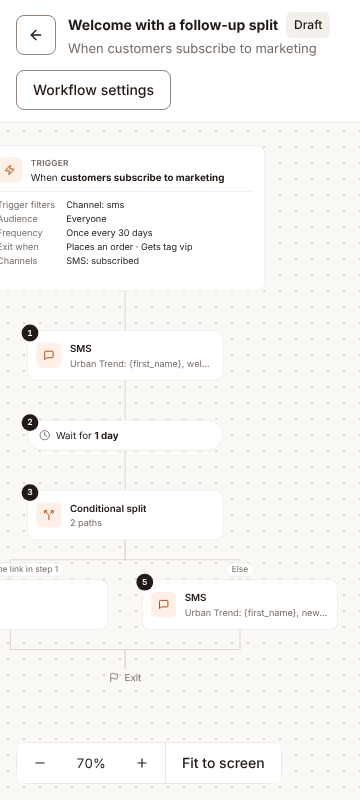
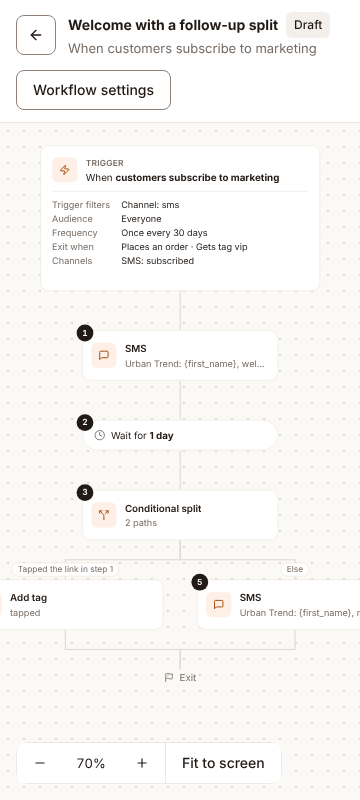
fix(camp-6): route long edges around cards and centre wide flows

diff --git a/apps/web/src/features/automations/workflow-canvas-layout.ts b/apps/web/src/features/automations/workflow-canvas-layout.ts
@@ -90,15 +90,6 @@ function rowOfEachStep(order: string[], steps: AutomationGraph['steps']) {
   return rows;
 }
 
-function edgePath(from: CanvasNode, to: CanvasNode) {
-  const startX = from.x + from.width / 2;
-  const startY = from.y + from.height;
-  const endX = to.x + to.width / 2;
-  if (startX === endX) return `M${startX} ${startY}V${to.y}`;
-  const bendY = startY + ROW_GAP / 2;
-  return `M${startX} ${startY}V${bendY}H${endX}V${to.y}`;
-}
-
 function branchLabels(step: AutomationStep, stepNumber: (key: string) => number) {
   if (step.kind === 'condition') {
     return [...step.paths.map((path) => conditionLabel(path.condition, stepNumber)), 'Else'];
@@ -120,56 +111,138 @@ function describeBranches(
   });
 }
 
+type Link = { from: string; to: string; label?: string };
+type Spot = { centerX: number; top: number; bottom: number; laneBottom: number };
+
+const isWaypoint = (item: string) => item.startsWith('~');
+
+// A link that skips rows gets a waypoint in each row it passes, so its line runs beside the cards
+// in between and never behind them.
+function routeOf(link: Link, index: number, rows: Map<string, number>) {
+  const route = [link.from];
+  for (let row = rows.get(link.from)! + 1; row < rows.get(link.to)!; row += 1) {
+    const waypoint = `~${index}:${row}`;
+    rows.set(waypoint, row);
+    route.push(waypoint);
+  }
+  return [...route, link.to];
+}
+
+// Each row is ordered by where the items above it sit, so lines rarely cross.
+function arrangeRows(routes: string[][], rows: Map<string, number>) {
+  const above = new Map<string, string[]>();
+  for (const route of routes) {
+    route.slice(1).forEach((item, index) => {
+      above.set(item, [...(above.get(item) ?? []), route[index]!]);
+    });
+  }
+  const rank = new Map([...rows.keys()].map((item, index) => [item, index]));
+  const lanes: string[][] = [];
+  for (const item of rank.keys()) (lanes[rows.get(item)!] ??= []).push(item);
+  for (let row = 1; row < lanes.length; row += 1) {
+    const place = new Map(lanes[row - 1]!.map((item, index) => [item, index]));
+    const middle = (item: string) => {
+      const parents = above.get(item)!;
+      return parents.reduce((sum, parent) => sum + place.get(parent)!, 0) / parents.length;
+    };
+    lanes[row]!.sort((a, b) => middle(a) - middle(b) || rank.get(a)! - rank.get(b)!);
+  }
+  return lanes;
+}
+
+function routePath(route: string[], spots: Map<string, Spot>) {
+  const start = spots.get(route[0]!)!;
+  let path = `M${start.centerX} ${start.bottom}`;
+  let from = start;
+  for (const item of route.slice(1)) {
+    const spot = spots.get(item)!;
+    if (spot.centerX !== from.centerX) {
+      path += `V${from.laneBottom + ROW_GAP / 2}H${spot.centerX}`;
+    }
+    path += `V${spot.top}`;
+    if (isWaypoint(item)) path += `V${spot.bottom}`;
+    from = spot;
+  }
+  return path;
+}
+
+function placeRows(lanes: string[][], graph: AutomationGraph, stepNumber: (key: string) => number) {
+  const widthOf = (item: string) => {
+    if (isWaypoint(item)) return 0;
+    return item === TRIGGER_KEY ? TRIGGER_WIDTH : STEP_WIDTH;
+  };
+  const stepOf = (item: string) => (item === TRIGGER_KEY ? null : graph.steps[item]!);
+  const laneWidth = (lane: string[]) =>
+    lane.reduce((sum, item) => sum + widthOf(item), 0) + (lane.length - 1) * COLUMN_GAP;
+  const contentWidth = Math.max(...lanes.map(laneWidth));
+  const nodes = new Map<string, CanvasNode>();
+  const spots = new Map<string, Spot>();
+  let y = PADDING;
+  for (const lane of lanes) {
+    const real = lane.filter((item) => !isWaypoint(item));
+    const laneBottom = y + Math.max(...real.map((item) => nodeHeight(stepOf(item))));
+    let x = PADDING + (contentWidth - laneWidth(lane)) / 2;
+    for (const item of lane) {
+      const width = widthOf(item);
+      const centerX = x + width / 2;
+      x += width + COLUMN_GAP;
+      if (isWaypoint(item)) {
+        spots.set(item, { centerX, top: y, bottom: laneBottom, laneBottom });
+        continue;
+      }
+      const step = stepOf(item);
+      const height = nodeHeight(step);
+      const number = step && step.kind !== 'exit' ? stepNumber(item) : null;
+      const branches = step ? describeBranches(step, graph.steps, stepNumber) : [];
+      nodes.set(item, {
+        key: item,
+        step,
+        number,
+        branches,
+        x: centerX - width / 2,
+        y,
+        width,
+        height,
+      });
+      spots.set(item, { centerX, top: y, bottom: y + height, laneBottom });
+    }
+    y = laneBottom + ROW_GAP;
+  }
+  return { nodes, spots, width: contentWidth + PADDING * 2, height: y - ROW_GAP + PADDING };
+}
+
 export function layoutWorkflow(graph: AutomationGraph): CanvasLayout {
   const order = readingOrder(graph);
   const numbered = order.filter((key) => graph.steps[key]!.kind !== 'exit');
   const stepNumber = (key: string) => numbered.indexOf(key) + 1;
-  const rows = rowOfEachStep(order, graph.steps);
-  const lanes: string[][] = [[TRIGGER_KEY]];
-  for (const key of order) (lanes[rows.get(key)!] ??= []).push(key);
-
-  const widthOf = (key: string) => (key === TRIGGER_KEY ? TRIGGER_WIDTH : STEP_WIDTH);
-  const laneWidth = (lane: string[]) =>
-    lane.reduce((sum, key) => sum + widthOf(key), 0) + (lane.length - 1) * COLUMN_GAP;
-  const contentWidth = Math.max(...lanes.map(laneWidth));
-  const nodes = new Map<string, CanvasNode>();
-  let y = PADDING;
-  for (const lane of lanes) {
-    let x = PADDING + (contentWidth - laneWidth(lane)) / 2;
-    for (const key of lane) {
-      const step = key === TRIGGER_KEY ? null : graph.steps[key]!;
-      const number = step && step.kind !== 'exit' ? stepNumber(key) : null;
-      const branches = step ? describeBranches(step, graph.steps, stepNumber) : [];
-      const size = { width: widthOf(key), height: nodeHeight(step) };
-      nodes.set(key, { key, step, number, branches, x, y, ...size });
-      x += widthOf(key) + COLUMN_GAP;
-    }
-    y += Math.max(...lane.map((key) => nodes.get(key)!.height)) + ROW_GAP;
-  }
-
-  const links: { from: string; to: string; label?: string }[] = [
-    { from: TRIGGER_KEY, to: graph.firstStepKey },
-  ];
+  const rows = new Map([[TRIGGER_KEY, 0], ...rowOfEachStep(order, graph.steps)]);
+  const links: Link[] = [{ from: TRIGGER_KEY, to: graph.firstStepKey }];
   for (const key of order) {
     const step = graph.steps[key]!;
     const labels = branchLabels(step, stepNumber);
     nextStepKeys(step).forEach((to, index) => links.push({ from: key, to, label: labels[index] }));
   }
+  const routes = links.map((link, index) => routeOf(link, index, rows));
+  const lanes = arrangeRows(routes, rows);
+
+  const { nodes, spots, width, height } = placeRows(lanes, graph, stepNumber);
+
   const edges = links.map(({ from, to, label }, index) => {
-    const target = nodes.get(to)!;
+    const target = spots.get(to)!;
     return {
       id: `${index}:${from}:${to}`,
-      path: edgePath(nodes.get(from)!, target),
+      path: routePath(routes[index]!, spots),
       label,
-      labelX: target.x + target.width / 2,
-      labelY: target.y - ROW_GAP / 4,
+      labelX: target.centerX,
+      labelY: target.top - ROW_GAP / 4,
     };
   });
   return {
     stepNumber,
-    width: contentWidth + PADDING * 2,
-    height: y - ROW_GAP + PADDING,
-    nodes: [...nodes.values()],
+    width,
+    height,
+    // The reading order is also the order a screen reader hears.
+    nodes: [TRIGGER_KEY, ...order].map((key) => nodes.get(key)!),
     edges,
   };
 }

diff --git a/apps/web/src/features/automations/workflow-canvas-layout.spec.ts b/apps/web/src/features/automations/workflow-canvas-layout.spec.ts
@@ -1,6 +1,6 @@
 import { describe, expect, it } from 'vitest';
 
-import type { AutomationGraph } from '@dakly/contracts/automations/graph';
+import type { AutomationGraph, AutomationStep } from '@dakly/contracts/automations/graph';
 import { automationTemplates } from '@dakly/contracts/automations/templates';
 
 import { layoutWorkflow, TRIGGER_KEY } from './workflow-canvas-layout';
@@ -15,6 +15,22 @@ const base: Omit<AutomationGraph, 'firstStepKey' | 'steps'> = {
 
 function overlap(a: { x: number; y: number; width: number; height: number }, b: typeof a) {
   return a.x < b.x + b.width && b.x < a.x + a.width && a.y < b.y + b.height && b.y < a.y + a.height;
+}
+
+// The up and down parts of an edge path, which is made of M, V and H commands.
+function verticalLines(path: string) {
+  const lines: { x: number; from: number; to: number }[] = [];
+  let x = 0;
+  let y = 0;
+  for (const [, command, first, second] of path.matchAll(/([MVH])([\d.]+)(?: ([\d.]+))?/g)) {
+    if (command === 'M') [x, y] = [Number(first), Number(second)];
+    if (command === 'H') x = Number(first);
+    if (command === 'V') {
+      lines.push({ x, from: y, to: Number(first) });
+      y = Number(first);
+    }
+  }
+  return lines;
 }
 
 describe('layoutWorkflow', () => {
@@ -83,6 +99,42 @@ describe('layoutWorkflow', () => {
     expect(nodes).toHaveLength(Object.keys(template.graph.steps).length + 1);
     for (const [index, node] of nodes.entries()) {
       for (const other of nodes.slice(index + 1)) expect(overlap(node, other)).toBe(false);
+    }
+  });
+
+  it('keeps the line of a skipping path out of the cards it passes', () => {
+    const wait = (next: string): AutomationStep => ({
+      kind: 'wait',
+      wait: { until: 'duration', minutes: 60 },
+      next,
+    });
+    const graph: AutomationGraph = {
+      ...base,
+      firstStepKey: 'split',
+      steps: {
+        split: {
+          kind: 'condition',
+          paths: [{ condition: { kind: 'has_tag', tag: 'vip' }, next: 'one' }],
+          elseNext: 'end',
+        },
+        one: wait('two'),
+        two: wait('three'),
+        three: wait('end'),
+        end: { kind: 'exit' },
+      },
+    };
+    const { nodes, edges } = layoutWorkflow(graph);
+    const skipping = edges.find(({ label }) => label === 'Else')!;
+    const lines = verticalLines(skipping.path);
+    expect(lines.length).toBeGreaterThan(2);
+    for (const node of nodes) {
+      for (const line of lines) {
+        const inside = node.x < line.x && line.x < node.x + node.width;
+        const along =
+          Math.min(line.from, line.to) < node.y + node.height &&
+          node.y < Math.max(line.from, line.to);
+        expect(inside && along).toBe(false);
+      }
     }
   });
 });

diff --git a/apps/web/src/features/automations/components/workflow-canvas.tsx b/apps/web/src/features/automations/components/workflow-canvas.tsx
@@ -2,7 +2,7 @@
 
 import { Minus, Plus } from 'lucide-react';
 import Link from 'next/link';
-import { useCallback, useMemo, useState } from 'react';
+import { useCallback, useEffect, useMemo, useRef, useState } from 'react';
 
 import type { AutomationDetailResponse } from '@dakly/contracts/automations';
 import { Badge } from '@dakly/ui/badge';
@@ -39,15 +39,22 @@ export function WorkflowCanvas({ id }: { id: string }) {
 
 function useViewportWidth() {
   const [width, setWidth] = useState(0);
-  const ref = useCallback((element: HTMLDivElement | null) => {
-    if (!element) return;
-    // A flow wider than the screen opens on its middle, where the trigger sits.
-    element.scrollLeft = (element.scrollWidth - element.clientWidth) / 2;
-    setWidth(element.clientWidth);
-    const observer = new ResizeObserver(() => setWidth(element.clientWidth));
-    observer.observe(element);
+  const element = useRef<HTMLDivElement | null>(null);
+  const ref = useCallback((node: HTMLDivElement | null) => {
+    element.current = node;
+    if (!node) return;
+    setWidth(node.clientWidth);
+    const observer = new ResizeObserver(() => setWidth(node.clientWidth));
+    observer.observe(node);
     return () => observer.disconnect();
   }, []);
+  // A flow wider than the screen opens on its middle, where the trigger sits. This waits for the
+  // first measured width, because that is when the opening zoom is applied.
+  const measured = width > 0;
+  useEffect(() => {
+    const node = element.current;
+    if (measured && node) node.scrollLeft = (node.scrollWidth - node.clientWidth) / 2;
+  }, [measured]);
   return { width, ref };
 }
 

diff --git a/apps/web/e2e/automation-canvas.spec.ts b/apps/web/e2e/automation-canvas.spec.ts
@@ -62,6 +62,22 @@ async function captureEvidence(page: Page, directory: string | undefined, name: 
   }
 }
 
+// The Else path skips two rows, so its line must run beside the cards in between.
+const skipping: AutomationGraph = {
+  ...branching,
+  firstStepKey: 'split',
+  steps: {
+    split: {
+      kind: 'condition',
+      paths: [{ condition: { kind: 'has_tag', tag: 'vip' }, next: 'pause' }],
+      elseNext: 'end',
+    },
+    pause: { kind: 'wait', wait: { until: 'duration', minutes: 60 }, next: 'tag' },
+    tag: { kind: 'action', action: { action: 'add_tag', tag: 'waited' }, next: 'end' },
+    end: { kind: 'exit' },
+  },
+};
+
 test('shows a saved workflow as a numbered canvas', async ({ page, context, baseURL }) => {
   const { token } = JSON.parse(process.env.BROWSER_FIXTURE!) as { token: string };
   await context.addCookies([
@@ -77,6 +93,7 @@ test('shows a saved workflow as a numbered canvas', async ({ page, context, base
     const drafts = [
       { name: 'Welcome new subscribers', templateKey: 'welcome_new_subscriber' },
       { name: 'Welcome with a follow-up split', graph: branching },
+      { name: 'Skip ahead for new people', graph: skipping },
     ];
     for (const [index, data] of drafts.entries()) {
       const response = await context.request.post('/api/automations', { headers, data });

diff --git a/apps/web/src/features/automations/components/automation-row.tsx b/apps/web/src/features/automations/components/automation-row.tsx
@@ -64,7 +64,16 @@ export function AutomationRow({
           </dd>
         </div>
       </dl>
-      {canEdit && <WorkflowActions workflow={workflow} />}
+      {canEdit ? (
+        <WorkflowActions workflow={workflow} />
+      ) : (
+        <Link
+          href={`/automations/${workflow.id}/canvas`}
+          className={buttonVariants({ variant: 'secondary' })}
+        >
+          View canvas
+        </Link>
+      )}
     </li>
   );
 }

diff --git a/apps/web/src/features/automations/components/workflow-canvas-nodes.tsx b/apps/web/src/features/automations/components/workflow-canvas-nodes.tsx
@@ -152,8 +152,8 @@ export function CanvasNodeItem({
       {step ? stepBody(step) : <TriggerCard graph={graph} layout={layout} />}
       {node.branches.length > 0 && (
         <ul className="sr-only">
-          {node.branches.map((branch) => (
-            <li key={branch}>{branch}</li>
+          {node.branches.map((branch, index) => (
+            <li key={index}>{branch}</li>
           ))}
         </ul>
       )}

diff --git a/docs/tasks.md b/docs/tasks.md
@@ -117,7 +117,7 @@ Core, built before channel connections with SMS as the first channel (D40), and 
 | CAMP-5  | Workflow engine: drafts, versions and runner                                                                                                                                                         | Done        | CAMP-8, CAMP-9, CAMP-10, MSG-1 | #110, #113, #133, #135, #168, #141, #182, #187, #189, #193, #156, #165, #231, #235 | D23; drafts and versions #110 and #113. Runner order: claims, steps, SMS dispatch preparation, send costs, SMS delivery deadline, shared workflow checks, retry record, SMS settlement, retries, balance pause and resume. Publish warnings come with CAMP-12 and CAMP-6. Owner email for balance pause waits on #213. Runner integration tests close worker connections after each test. The wallet-lock quiet-hours case pins the wake time to its fixture clock. |
 | CAMP-11 | Workflow triggers and entry rules                                                                                                                                                                    | Done        | CAMP-5, DB-2                   | #195, #196                                                                         | Event entry, birthday and preview merged. Order triggers are ORD-4. consent_given ignores source import (owner, 17 Nov). The seven-day entry count on the builder goes with CAMP-6.                                                                                                                                                                                                                                                                                 |
 | CAMP-12 | Web: automations list, template library and settings forms                                                                                                                                           | Done        | CAMP-11, WEB-2                 | #212, #214, #215                                                                   | Builder stage 1: list, template library and settings forms. The settings form warns when an "every time" tag-added workflow removes its own trigger tag.                                                                                                                                                                                                                                                                                                            |
-| CAMP-6  | Web: workflow canvas                                                                                                                                                                                 | In progress | CAMP-12                        |                                                                                    | Builder stage 2                                                                                                                                                                                                                                                                                                                                                                                                                                                     |
+| CAMP-6  | Web: workflow canvas                                                                                                                                                                                 | In progress | CAMP-12                        |                                                                                    | Builder stage 2. Part 1: read-only canvas. Part 2: add, move and delete steps, the add-step menu, checks with one-click fixes, Save draft and Publish on the canvas, rename, the step menus and per-step stats. Part 3: seven-day entry count on the trigger card.                                                                                                                                                                                                  |
 | CAMP-14 | Workflow leftovers from CAMP-5: wake waits on a reply or tap, record taps on workflow messages, review before sending, dynamic fields and links in workflow text, tag action event and audit         | Todo        | CAMP-5, CAMP-10                |                                                                                    | Listed at the end of the CAMP-5 section in [plans/campaigns-and-automations.md](plans/campaigns-and-automations.md). Order fields and the confirm link in workflow text landed in ORD-4 (feature 09, "Order fields in workflow text"); CAMP-14 extends the same renderer.                                                                                                                                                                                           |
 | CAMP-15 | Campaign results leftovers from CAMP-4: cost and return per ৳1, customer lists by outcome, failures grouped by reason with SMS fallback, resend, duplicate and follow-up actions, "Results final on" | Todo        | CAMP-4, ANA-2                  |                                                                                    | Each needs a campaign API read or action that does not exist yet; listed in #263 and feature 09                                                                                                                                                                                                                                                                                                                                                                     |
 | CAMP-1  | WhatsApp templates sync and submit                                                                                                                                                                   | Blocked     | CHN-3                          |                                                                                    | Waits for CHN-3                                                                                                                                                                                                                                                                                                                                                                                                                                                     |
